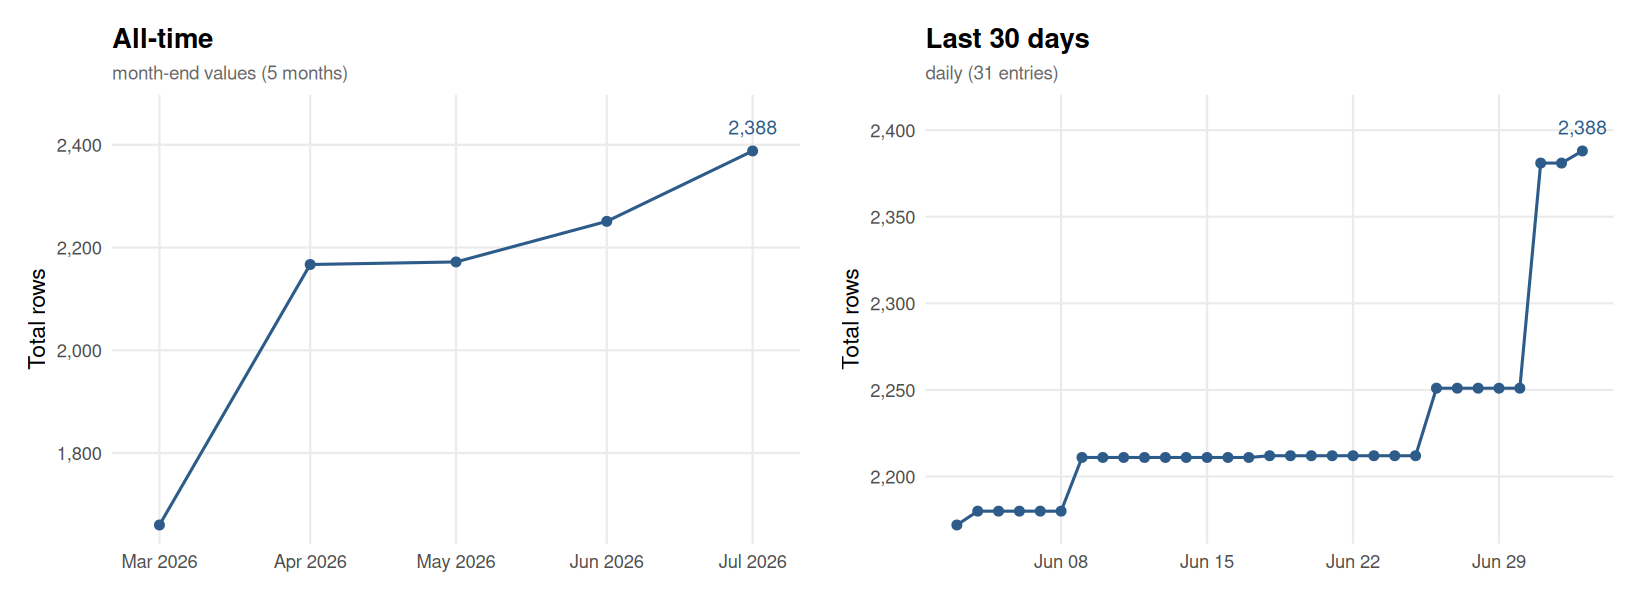
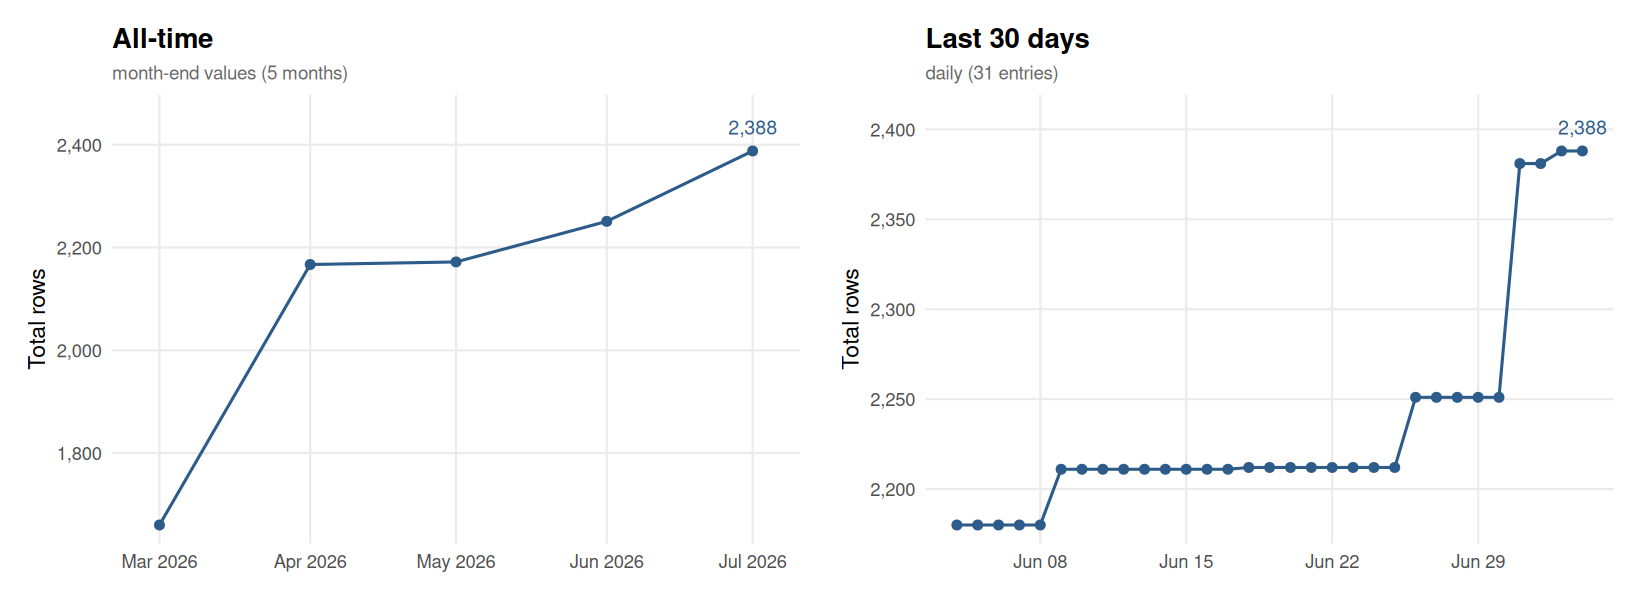
Update flora.csv [automated]

diff --git a/README.md b/README.md
@@ -438,14 +438,15 @@ For API issues:
 This chart is automatically updated after each pipeline run, showing the size of `output/flora.csv` over time.
 
 <!-- FLORA_UPDATE_LOG_START -->
-> **Latest (2026-07-03):** Total = 2,388 | Replications = 2,379 | Reproductions = 9
+> **Latest (2026-07-04):** Total = 2,388 | Replications = 2,379 | Reproductions = 9
 
 ![FLoRA dataset size over time](output/flora_history.png)
 
-<details><summary>Full history (106 entries)</summary>
+<details><summary>Full history (107 entries)</summary>
 
 | Date | Total | Replications | Reproductions |
 |------|------:|-------------:|--------------:|
+| 2026-07-04 | 2388 | 2379 | 9 |
 | 2026-07-03 | 2388 | 2379 | 9 |
 | 2026-07-02 | 2381 | 2372 | 9 |
 | 2026-07-01 | 2381 | 2372 | 9 |
